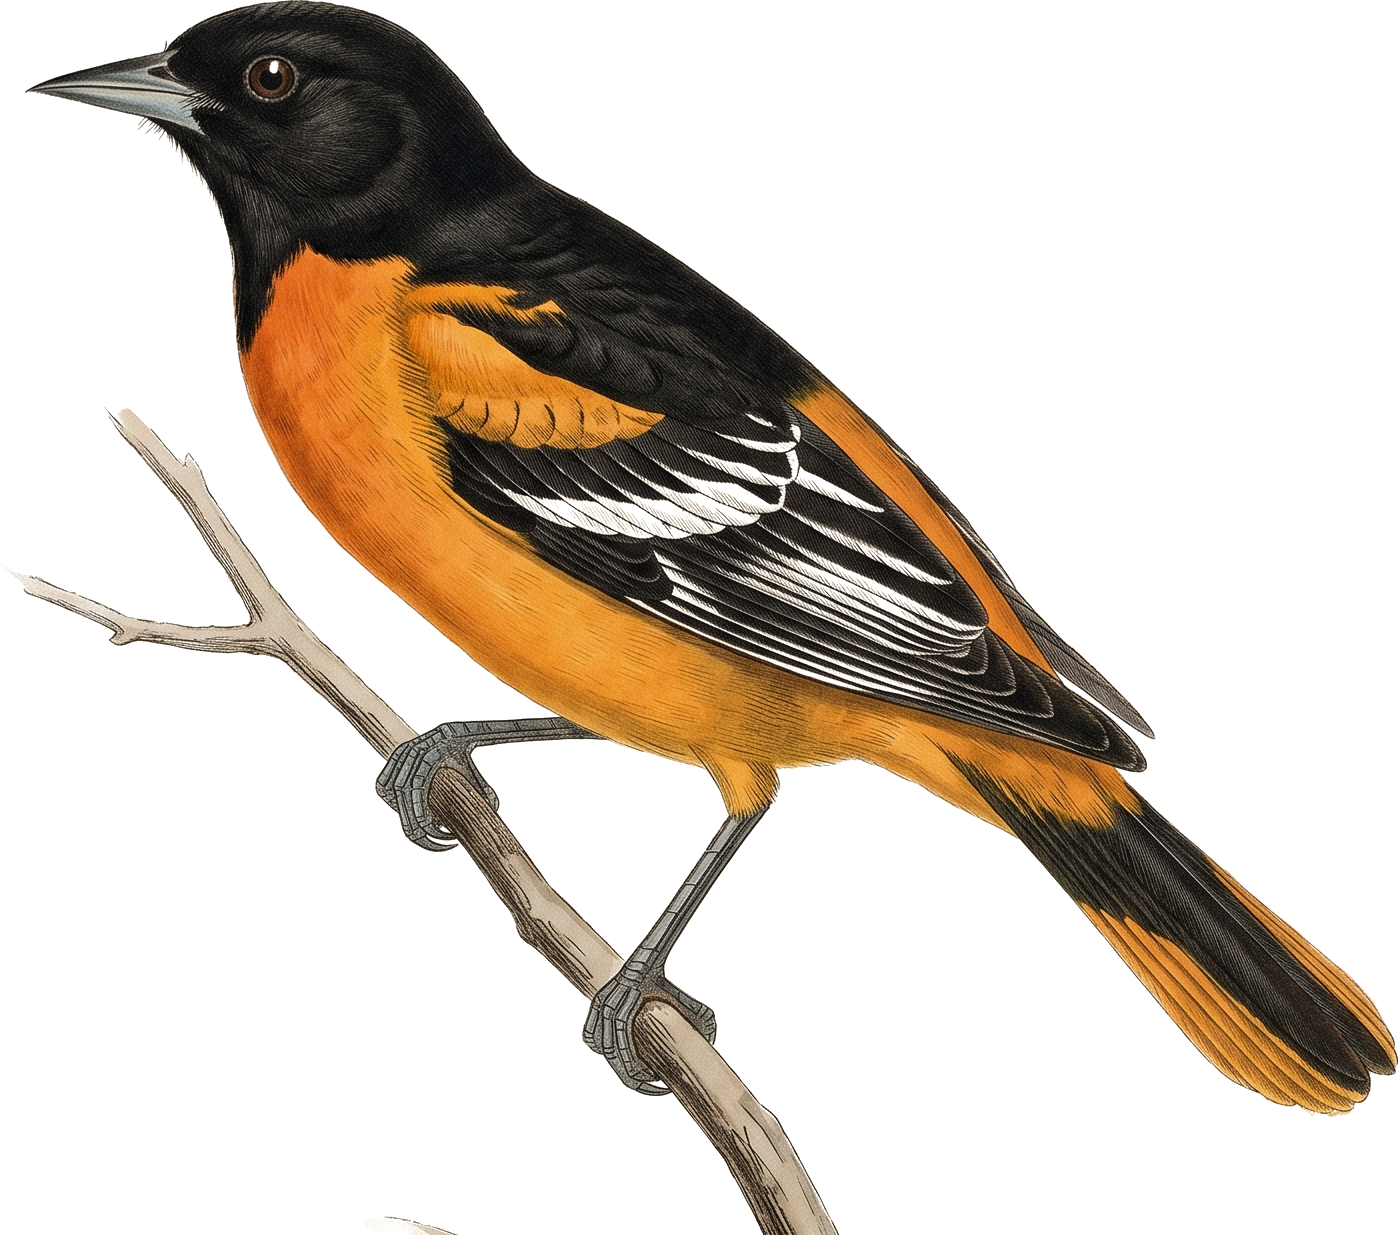
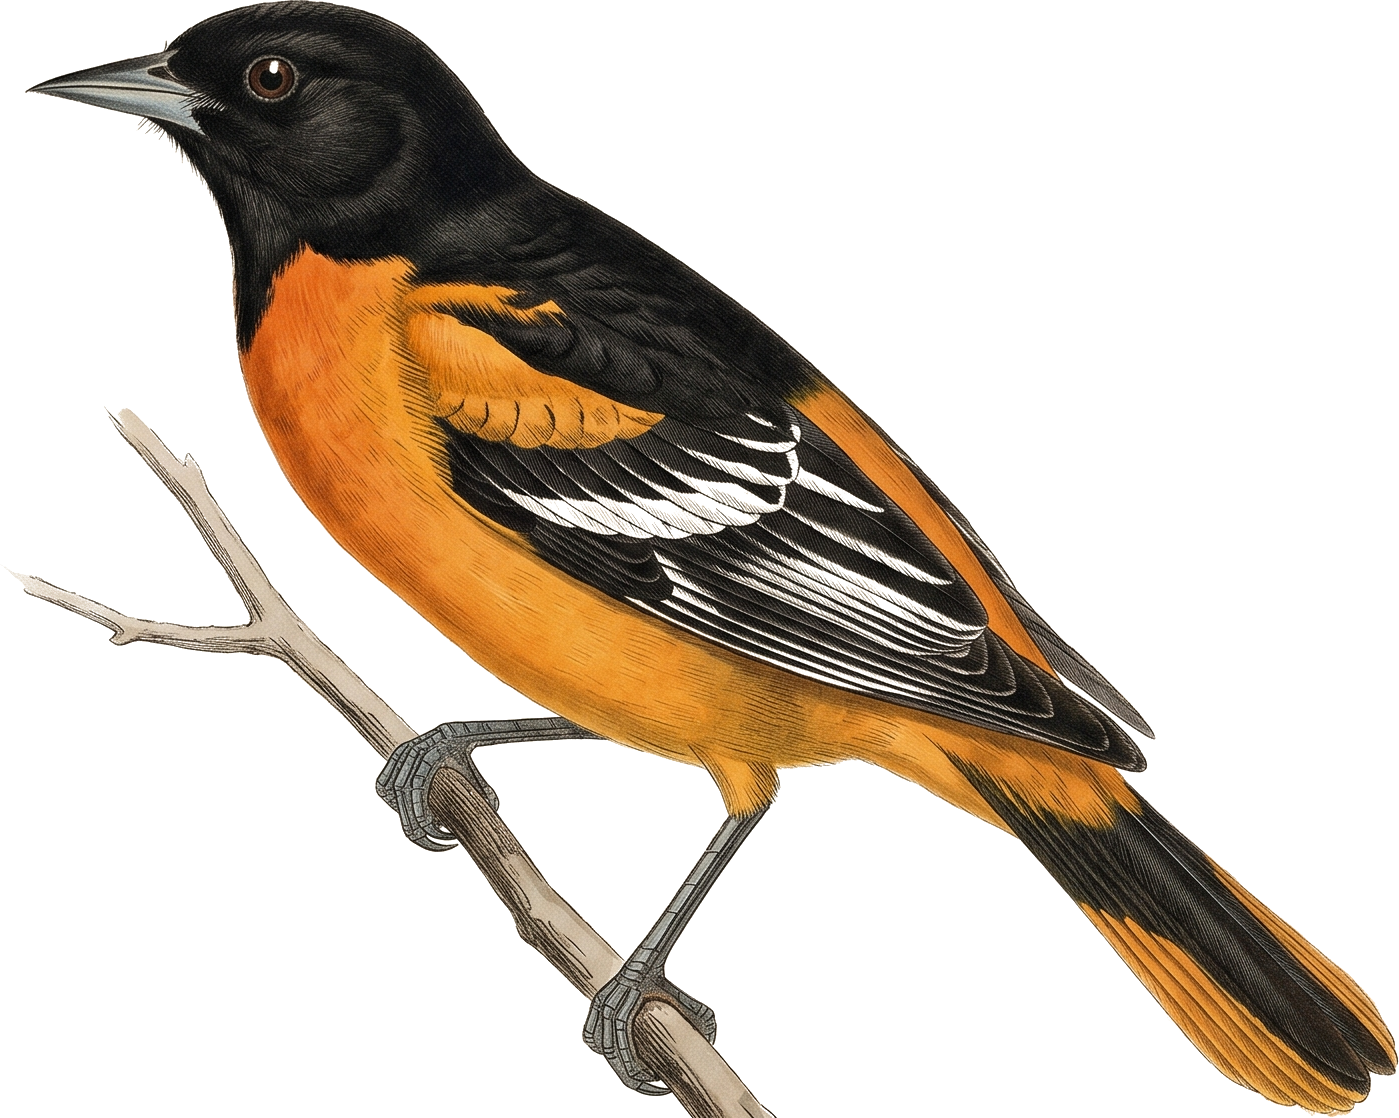
Add Ethiopia Guji Uraga single origin roast and updated image assets

diff --git a/_roasts/ethiopia-guji-uraga.md b/_roasts/ethiopia-guji-uraga.md
@@ -1,0 +1,17 @@
+---
+title: "Ethiopia 'Guji Uraga'"
+slug: ethiopia-guji-uraga
+category: single origin
+order: 7
+roast_level: 2
+region: Uraga, Guji Zone
+elevation: 1,900 – 2,100m
+tasting_notes: Orange, aromatic spices
+brewing_method: Pour-over, Drip, Espresso
+processing_method: Natural (Dry Process)
+mascot: baltimore-oriole
+mascot_file: audubon-baltimore-oriole-transparent.png
+rotating: true
+description: >-
+  One of our more versatile dry process Ethiopian coffees, with juicy fruit, spiced sweetness, and convincing acidity, expanding into chocolate-driven profiles, orange highlights, and chicory tea.
+---
